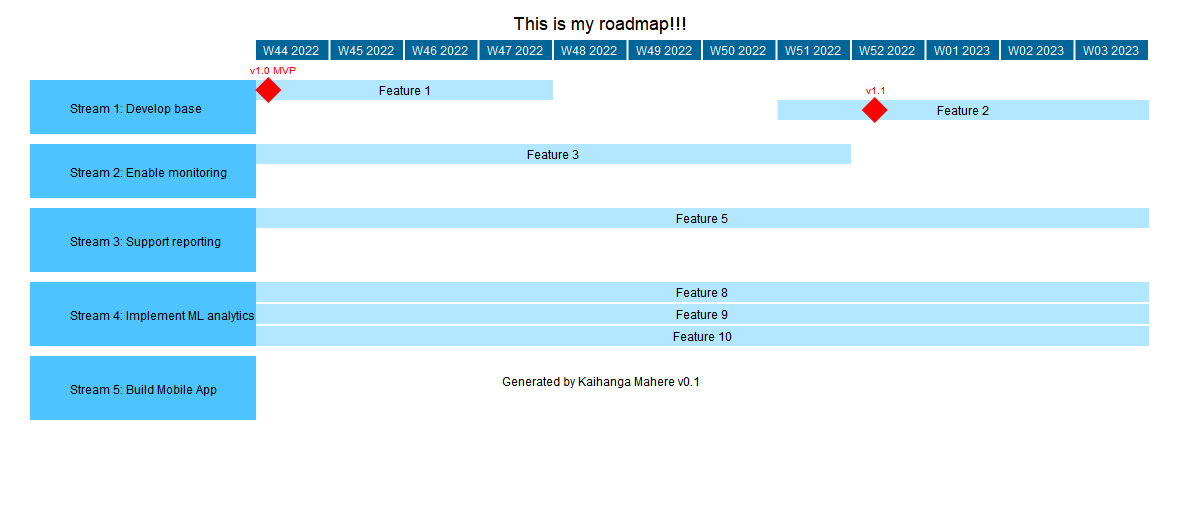
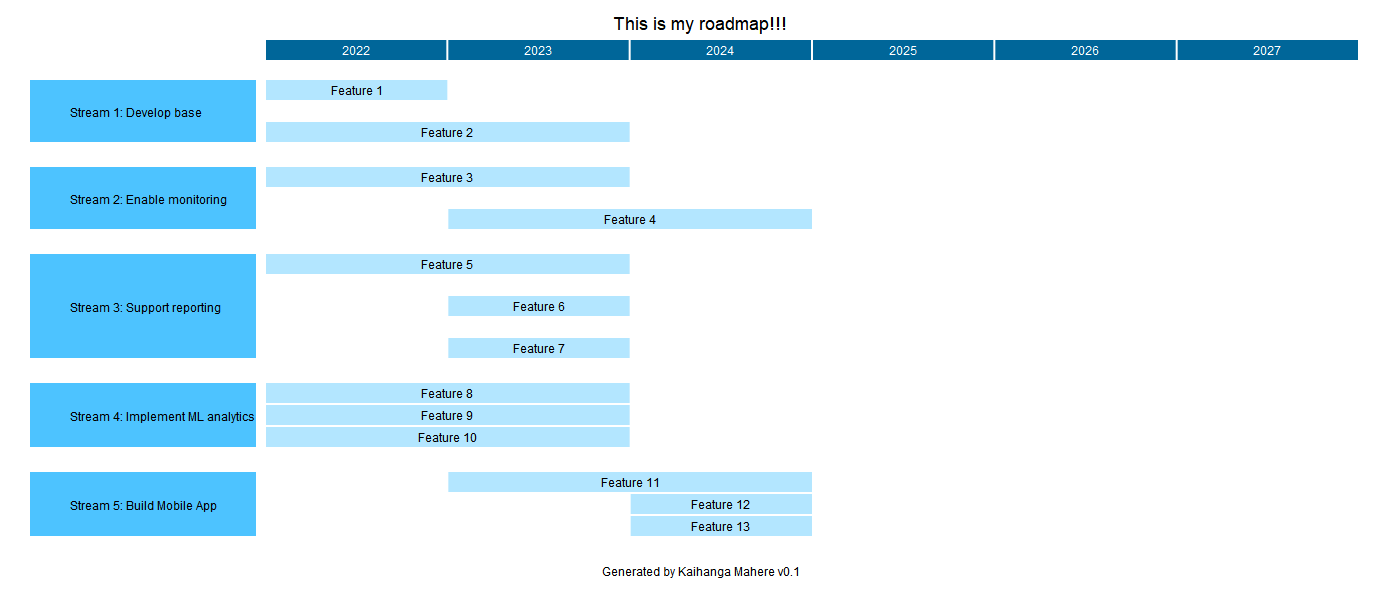
fixed milestone errors and gap between groups

Changed region(s): [[0.0, 0.0312, 0.9867, 0.875], [0.6475, 0.1875, 0.9558, 0.25], [0.4317, 0.9062, 0.5858, 0.9688]]

diff --git a/generator.py b/generator.py
@@ -22,7 +22,7 @@ import calendar
 from roadmapdict import RoadMapDict
 
 
-class Mahere:
+class Roadmap:
     # Private variables
     __VSPACER = 12
     __HSPACER = 2
@@ -255,7 +255,7 @@ class Mahere:
                 (x * timeline_item_width)
                 + max_group_text_width
                 + (self.__HSPACER * x)
-                + 50
+                + 60  # Gap between Group Box and Task Box
             )
 
             # Draw timeline box
@@ -336,7 +336,7 @@ class Mahere:
                 footer_height,
             )
 
-    def __draw_group(self, x, y, max_width, group_text):
+    def __draw_group(self, x, y, max_width, max_height, group_text):
         additional_height_for_milestone = 6
         # Calculate number of milestones in group
         milestone_count = 0
@@ -357,14 +357,22 @@ class Mahere:
         group_total_width = max_width + 20
 
         self.__painter.set_colour(self.__roadmap_input[group_text].get("colour"))
-        self.__painter.draw_box(x, y, group_total_width, group_total_height)
+        # self.__painter.draw_box(x, y, group_total_width, group_total_height)
+
+        print(
+            f"-->draw_group {group_text} {x=} {y=} {group_total_width=} {max_height=}"
+        )
+
+        self.__painter.draw_box(x, y, group_total_width, max_height)
 
         self.__painter.set_colour(self.group_text_colour)
         x_pos, y_pos = self.__painter.get_display_text_position(
-            x, y, group_total_width, group_total_height, group_text, "left"
+            x, y, group_total_width, max_height, group_text, "left"
         )
-        self.__painter.draw_text(x_pos, y_pos, group_text)
-        return y + group_total_height
+        if max_height > 0:
+            self.__painter.set_font(self.text_font, 12, self.group_text_colour)
+            self.__painter.draw_text(x_pos, y_pos, group_text)
+        return y + max_height
 
     def __draw_groups(self, task_data, max_group_text_width, timeline_positions):
         if self.__task1_milestone_exists == True:
@@ -376,6 +384,7 @@ class Mahere:
         group_x_pos = 30
         group_y_pos = 0
         i = 0
+
         for group_item in task_data.keys():
 
             self.__painter.set_font(self.text_font, 12, self.timeline_text_colour)
@@ -384,24 +393,42 @@ class Mahere:
             if next_group_y_pos == 0:
                 group_y_pos = group_y_start_pos
             else:
-                group_y_pos = next_group_y_pos + 10  # Gap between groups
+                group_y_pos = next_group_y_pos + 25  # Gap between groups
 
-            next_group_y_pos = self.__draw_group(
-                group_x_pos, group_y_pos, max_group_text_width, group_item
-            )
-            # next_group_y_pos += 5
-            # next_group_y_pos = group_y_pos
-
+            # print(f"-->calculated group pos {group_item=} {group_y_pos=}")
             ## Set Task
             task_y_pos = group_y_pos
-            # next_group_y_pos = task_y_pos
+
+            milestone_in_group = False
+            tasks = self.__roadmap_input[group_item].get("tasks", {})
+            for task in tasks:
+                for milestone in tasks[task].get("milestones", {}):
+                    if milestone != {}:
+                        milestone_in_group = True
+                        break
 
             j = 0
+            group_y_start_pos = 0
+            last_task_height = 0
+            group_height = 0
             for task in self.__roadmap_input[group_item].get("tasks"):
                 task_text = task
                 ## Determine task y (vertical) position
                 _, text_height = self.__painter.get_text_dimension(task_text)
-                next_task_y_pos = task_y_pos + text_height * j + (self.__VSPACER * j)
+
+                # Check whether task has milestones
+                if milestone_in_group == False:
+                    next_task_y_pos = (
+                        task_y_pos + (text_height * j) + (self.__VSPACER * j)
+                    )
+                else:
+                    next_task_y_pos = (
+                        task_y_pos + (text_height * j) + (self.__VSPACER * j) + (20 * j)
+                    )
+
+                if j == 0:
+                    group_y_start_pos = next_task_y_pos
+
                 # next_group_y_pos = next_task_y_pos
                 text_height = 20
 
@@ -454,6 +481,15 @@ class Mahere:
                         total_bar_width,
                         task_box_height,
                     )
+                    # print(
+                    #     f"Task: {task} - {bar_start_x_pos=}, {task_box_y_pos=}, {total_bar_width=}, {task_box_height=}"
+                    # )
+
+                    last_task_height = task_box_height
+                    group_height = task_box_y_pos + task_box_height - group_y_start_pos
+                    # print(
+                    #     f"{task_text}, {next_task_y_pos=}, {last_task_height=}, {group_y_start_pos=}, {group_height=}"
+                    # )
 
                     self.__roadmap_dict.set_groups_item_task_coordinates(
                         i,
@@ -480,7 +516,7 @@ class Mahere:
                 bar_start_x_pos = 0
                 total_bar_width = 0
                 milestones = self.__get_milestones(group_item, task)
-                print(f"{task} - milestones: {milestones}")
+                # print(f"{task} - milestones: {milestones}")
                 for timeline_index in range(self.timeline_item):
                     this_period = self.__get_timeline_period(timeline_index)
 
@@ -547,6 +583,18 @@ class Mahere:
                                     milestone_text,
                                 )
                 j += 1
+
+            # print(
+            #     f"Group : {group_item} - {group_x_pos=}, {group_y_start_pos=}, {max_group_text_width=}, {group_height=}, {group_item=}"
+            # )
+            next_group_y_pos = self.__draw_group(
+                group_x_pos,
+                group_y_start_pos,
+                max_group_text_width,
+                group_height,
+                group_item,
+            )
+
             i += 1
 
     def __get_timeline_pos_percentage(self, timeline_index, milestone_date):
@@ -557,8 +605,9 @@ class Mahere:
         if self.timeline_mode == self.WEEKLY:
             pos_percentage = milestone_date.weekday() / 7
             milestone_period = f"{milestone_date.year}{milestone_date.strftime('%W')}"
-            print(f"milestone_period: {milestone_period}, this_period: {this_period}")
+            # print(f"milestone_period: {milestone_period}, this_period: {this_period}")
             if milestone_period == this_period:
+                # print(">>Matched")
                 correct_timeline = True
 
         if self.timeline_mode == self.MONTHLY:
@@ -574,11 +623,11 @@ class Mahere:
             milestone_period = (
                 f"{milestone_date.year}{self.__get_quarter_from_date(milestone_date)}"
             )
-            print(
-                f"milestone date: {milestone_date}, milestone_period: {milestone_period}, this_period: {this_period}"
-            )
+            # print(
+            #     f"milestone date: {milestone_date}, milestone_period: {milestone_period}, this_period: {this_period}"
+            # )
             if milestone_period == this_period:
-                print(">>Matched")
+                # print(">>Matched")
                 correct_timeline = True
 
         return (correct_timeline, pos_percentage)
@@ -638,14 +687,14 @@ class Mahere:
 
     def __get_yearly_dates(self, group, task):
         task_start_date = datetime(
-            task.get("start").year,
-            task.get("start").month,
-            task.get("start").day,
+            self.__roadmap_input[group].get("tasks")[task].get("start").year,
+            self.__roadmap_input[group].get("tasks")[task].get("start").month,
+            self.__roadmap_input[group].get("tasks")[task].get("start").day,
         )
         task_end_date = datetime(
-            task.get("end").year,
-            task.get("end").month,
-            task.get("end").day,
+            self.__roadmap_input[group].get("tasks")[task].get("end").year,
+            self.__roadmap_input[group].get("tasks")[task].get("end").month,
+            self.__roadmap_input[group].get("tasks")[task].get("end").day,
         )
         task_start_period = f"{task_start_date.year}"
         task_end_period = f"{task_end_date.year}"
@@ -654,14 +703,14 @@ class Mahere:
 
     def __get_half_yearly_dates(self, group, task):
         task_start_date = datetime(
-            task.get("start").year,
-            task.get("start").month,
-            task.get("start").day,
+            self.__roadmap_input[group].get("tasks")[task].get("start").year,
+            self.__roadmap_input[group].get("tasks")[task].get("start").month,
+            self.__roadmap_input[group].get("tasks")[task].get("start").day,
         )
         task_end_date = datetime(
-            task.get("end").year,
-            task.get("end").month,
-            task.get("end").day,
+            self.__roadmap_input[group].get("tasks")[task].get("end").year,
+            self.__roadmap_input[group].get("tasks")[task].get("end").month,
+            self.__roadmap_input[group].get("tasks")[task].get("end").day,
         )
         task_start_period = f"{task_start_date.year}{task_start_date.month // 6 + 1}"
         task_end_period = f"{task_end_date.year}{task_end_date.month // 6 + 1}"

diff --git a/my_roadmap.py b/my_roadmap.py
@@ -1,12 +1,12 @@
-from kaihanga import Mahere
+from generator import Roadmap
 
-my_roadmap = Mahere(1200, 512, "my_roadmap.png")
+my_roadmap = Roadmap(1400, 612, "my_roadmap.png")
 
 my_roadmap.title_text = "This is my roadmap!!!"
 # my_roadmap.timeline_fill_colour = "#527a7a"
 # my_roadmap.timeline_text_colour = "White"
-my_roadmap.timeline_mode = Mahere.WEEKLY
-my_roadmap.timeline_item = 12
+my_roadmap.timeline_mode = Roadmap.YEARLY
+my_roadmap.timeline_item = 6
 # my_roadmap.group_text_colour = "Black"
 # my_roadmap.task_text_colour = "Black"
 my_roadmap.show_footer = True
@@ -15,21 +15,24 @@ group1 = my_roadmap.add_group("Stream 1: Develop base")
 task1 = my_roadmap.add_task(group1, "Feature 1", "2022-10-24", "2022-11-24")
 task2 = my_roadmap.add_task(group1, "Feature 2", "2022-12-24", "2023-04-24")
 my_roadmap.add_milestone(group1, task1, "v1.0 MVP", "2022-11-01")
-my_roadmap.add_milestone(group1, task2, "v1.1", "2022-12-28")
-my_roadmap.add_milestone(group1, task2, "v1.2", "2023-04-30")
-
+my_roadmap.add_milestone(group1, task2, "v1.1", "2023-04-24")
+my_roadmap.add_milestone(group1, task2, "v1.2", "2023-12-15")
 
 group2 = my_roadmap.add_group("Stream 2: Enable monitoring")
-task3 = my_roadmap.add_task(group2, "Feature 3", "2022-04-24", "2022-12-24")
+task3 = my_roadmap.add_task(group2, "Feature 3", "2022-04-24", "2023-01-24")
 my_roadmap.add_milestone(group2, task3, "Monitoring Portal 1", "2022-12-30")
 
 task4 = my_roadmap.add_task(group2, "Feature 4", "2023-01-24", "2024-12-24")
 my_roadmap.add_milestone(group2, task4, "Monitoring Portal 2", "2023-06-30")
 
 group3 = my_roadmap.add_group("Stream 3: Support reporting")
-my_roadmap.add_task(group3, "Feature 5", "2022-10-24", "2023-03-24")
-my_roadmap.add_task(group3, "Feature 6", "2023-04-24", "2023-07-24")
-my_roadmap.add_task(group3, "Feature 7", "2023-08-24", "2023-08-24")
+task5 = my_roadmap.add_task(group3, "Feature 5", "2022-10-24", "2023-03-24")
+my_roadmap.add_milestone(group3, task5, "Reporting Framework", "2023-03-24")
+task6 = my_roadmap.add_task(group3, "Feature 6", "2023-04-24", "2023-07-24")
+my_roadmap.add_milestone(group3, task6, "Reporting server", "2023-06-30")
+
+task7 = my_roadmap.add_task(group3, "Feature 7", "2023-08-24", "2023-08-24")
+my_roadmap.add_milestone(group3, task7, "Reporting Portal", "2023-08-30")
 
 group4 = my_roadmap.add_group("Stream 4: Implement ML analytics")
 my_roadmap.add_task(group4, "Feature 8", "2022-05-24", "2023-11-24")
@@ -44,3 +47,14 @@ my_roadmap.add_task(group5, "Feature 13", "2024-07-24", "2024-08-24")
 
 my_roadmap.render()
 # print(f"{my_roadmap.__repr__()}")
+
+## Idea
+# with my_roadmap.add_group("Stream 2: Develop base") as group2:
+#     with my_roadmap.add_task(group2, "Feature 3", "2022-10-24", "2022-11-24") as task3:
+#         my_roadmap.add_milestone(group2, task3, "v1.0 MVP", "2022-11-01")
+#         my_roadmap.add_milestone(group2, task3, "v1.1", "2023-06-28")
+#         my_roadmap.add_milestone(group2, task3, "v1.2", "2023-12-15")
+#     with my_roadmap.add_task(group2, "Feature 4", "2022-12-24", "2023-04-24") as task4:
+#         my_roadmap.add_milestone(group2, task4, "v1.0 MVP", "2022-11-01")
+#         my_roadmap.add_milestone(group2, task4, "v1.1", "2023-06-28")
+#         my_roadmap.add_milestone(group2, task4, "v1.2", "2023-12-15")

diff --git a/roadmapdict.py b/roadmapdict.py
@@ -5,11 +5,7 @@ class RoadMapDict:
         self.roadmap_dict["recommended_height"] = 0
 
     def update_recommended_height(self, height):
-        # print(
-        #     f"    recommended_height (1): {self.roadmap_dict['recommended_height']}"
-        # )
         self.roadmap_dict["recommended_height"] = height
-        # print(f"    recommended_height (2): {height}")
 
     def set_title_coordinates(self, x, y, width, height, title_text):
         self.roadmap_dict["title"] = {

diff --git a/painter.py b/painter.py
@@ -52,6 +52,7 @@ class Painter:
         self.set_colour(font_colour)
 
     def draw_box(self, x, y, width, height):
+        # print(f"Drawing box at {x}, {y} with width {width} and height {height}")
         self.__cr.rectangle(x, y, width, height)
         self.__cr.fill()
 
